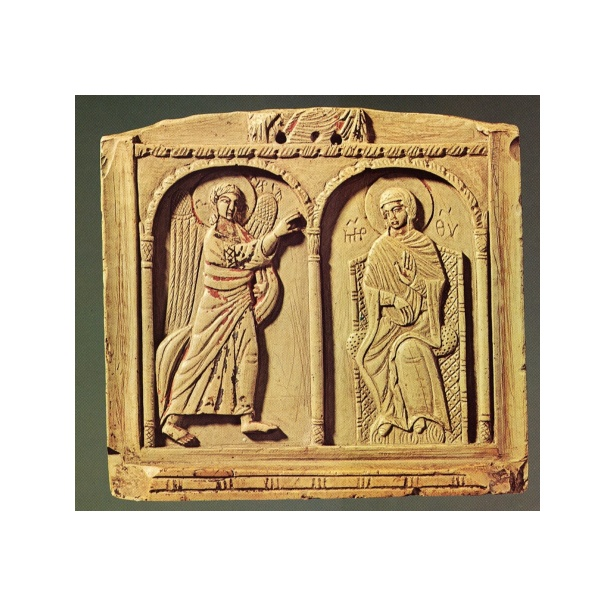
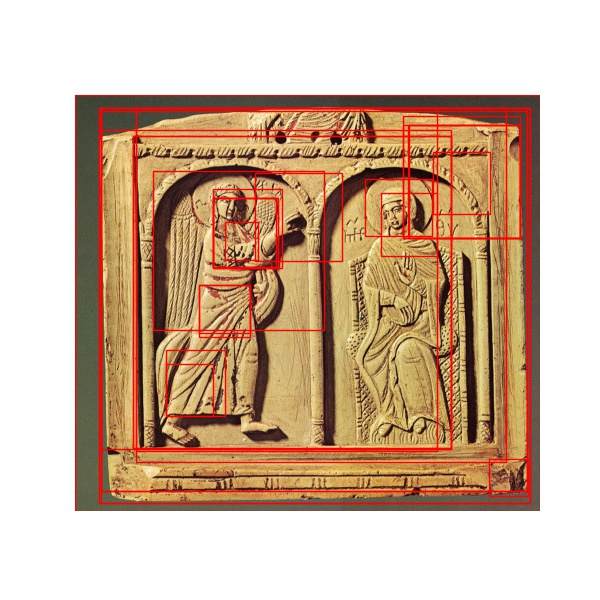
选择性算法

Changed region(s): [[0.12, 0.15, 0.9, 0.87]]

diff --git a/exercise-05_Visual Recognition for Humanities/projcv-ss-2021/code/student.py b/exercise-05_Visual Recognition for Humanities/projcv-ss-2021/code/student.py
@@ -7,11 +7,12 @@ from __future__ import division
 
 import skimage.io
 import skimage.feature
-import skimage.color
+from skimage.color import rgb2hsv
 import skimage.transform
 import skimage.util
-import skimage.segmentation
+import skimage.segmentation as segmentation
 import numpy as np
+
 
 def generate_segments(im_orig, scale, sigma, min_size):
     """
@@ -19,48 +20,59 @@ def generate_segments(im_orig, scale, sigma, min_size):
     1.1. Generate the initial image mask using felzenszwalb algorithm
     1.2. Merge the image mask to the image as a 4th channel
     """
-    ### YOUR CODE HERE ###
+    # mask对每一个像素都进行编号
+    mask = segmentation.felzenszwalb(im_orig, scale, sigma, min_size)
+    seg_img = np.zeros((im_orig.shape[0], im_orig.shape[1], 4))
+    seg_img[:, :, :3] = im_orig
+    seg_img[:, :, 3] = mask
 
-    return im_orig
+    return seg_img
+
 
 def sim_colour(r1, r2):
     """
     2.1. calculate the sum of histogram intersection of colour
     """
-    ### YOUR CODE HERE ###
-
-    return 0
-
+    sum = 0
+    for a, b in zip(r1["hist_color"], r2["hist_color"]):
+        con = np.concatenate(([a], [b]), axis=0)
+        sum += np.sum(np.min(con, axis=0))
+    return sum
 
 def sim_texture(r1, r2):
     """
     2.2. calculate the sum of histogram intersection of texture
     """
-    ### YOUR CODE HERE ###
-
-    return 0
+    sum = 0
+    for a, b in zip(r1["hist_text"], r2["hist_text"]):
+        con = np.concatenate(([a], [b]), axis=0)
+        sum += np.sum(np.min(con, axis=0))
+    return sum
 
 
 def sim_size(r1, r2, imsize):
     """
     2.3. calculate the size similarity over the image
     """
-    ### YOUR CODE HERE ###
-
-    return 0
+    return 1 - (r1["size"] + r2["size"]) / imsize
 
 
 def sim_fill(r1, r2, imsize):
     """
     2.4. calculate the fill similarity over the image
     """
-    ### YOUR CODE HERE ###
+    # bb is Bounding Box
+    bbsize = (
+            (max(r1["max_x"], r2["max_x"]) - min(r1["min_x"], r2["min_x"]))
+            * (max(r1["max_y"], r2["max_y"]) - min(r1["min_y"], r2["min_y"]))
+    )
+    return 1.0 - (bbsize - r1["size"] - r2["size"]) / imsize
 
-    return 0
 
 def calc_sim(r1, r2, imsize):
     return (sim_colour(r1, r2) + sim_texture(r1, r2)
             + sim_size(r1, r2, imsize) + sim_fill(r1, r2, imsize))
+
 
 def calc_colour_hist(img):
     """
@@ -70,12 +82,17 @@ def calc_colour_hist(img):
     number of bins is 25 as same as [uijlings_ijcv2013_draft.pdf]
     extract HSV
     """
+    # input的img已flatten,输入的img参数是每一类别的所有像素点的hsv值
+
     BINS = 25
-    hist = np.array([])
-    ### YOUR CODE HERE ###
-
-
+    hist = np.zeros((BINS, 3))
+    for i in range(3):
+        # hist[:, i], _ = np.histogram(img[:, i], bins=BINS, range=(0, 255))
+        hist[:, i], _ = np.histogram(img[:, i], bins=BINS, range=(0, 255))
+    # L1 normalize
+    hist = hist / len(img)
     return hist
+
 
 def calc_texture_gradient(img):
     """
@@ -86,10 +103,13 @@ def calc_texture_gradient(img):
     output will be [height(*)][width(*)]
     Useful function: Refer to skimage.feature.local_binary_pattern documentation
     """
-    ret = np.zeros((img.shape[0], img.shape[1], img.shape[2]))
-    ### YOUR CODE HERE ###
+    # LBP是一种可用于纹理分类的不变描述符
+    ret = np.zeros_like(img)
+    for i in range(3):
+        ret[:, :, i] = skimage.feature.local_binary_pattern(img[:, :, i], P=8, R=1)
 
     return ret
+
 
 def calc_texture_hist(img):
     """
@@ -101,36 +121,66 @@ def calc_texture_hist(img):
     Do not forget to L1 Normalize the histogram
     """
     BINS = 10
-    hist = np.array([])
-    ### YOUR CODE HERE ###
+    hist = np.zeros((BINS, 3))
+    for i in range(3):
+        hist[:, i], _ = np.histogram(img[:, i], bins=BINS, range=(0, 1))
 
-
+    # L1 normalize
+    hist = hist / len(img)
     return hist
 
+
+# 提取区域的尺寸，颜色和纹理特征
 def extract_regions(img):
-    '''
+    """
     Task 2.5: Generate regions denoted as datastructure R
     - Convert image to hsv color map
     - Count pixel positions
     - Calculate the texture gradient
     - calculate color and texture histograms
     - Store all the necessary values in R.
-    '''
+    """
+    # R记录了该图像每个region的信息：mix_x,min_y,max_x,max_y,size,hist_c,hist_t
     R = {}
-    ### YOUR CODE HERE ###
+
+    hsv_img = rgb2hsv(img[:, :, :3])
+
+    # Count pixel positions
+    # 遍历图片像素点,将每个region最大以及最小的x、y坐标记录在字典R中
+    for y in range(img.shape[0]):
+        for x in range(img.shape[1]):
+            label = img[y, x, 3]
+
+            # initialize a new region
+            if label not in R:
+                R[label] = {"labels": label, "min_x": x, "max_x": x, "min_y": y, "max_y": y}
+            # 改写R字典里的value
+            if x > R[label]["max_x"]: R[label]["max_x"] = x
+            if y > R[label]["max_y"]: R[label]["max_y"] = y
+            if x < R[label]["min_x"]: R[label]["min_x"] = x
+            if y < R[label]["min_y"]: R[label]["min_y"] = y
+
+    texture_grad = calc_texture_gradient(img)
+    for label in R.keys():
+        mask = (img[:, :, 3] == label)
+        R[label]["size"] = hsv_img[mask].shape[0]  # hsv_img[mask].shape=(51,3)
+        # calculate color and texture histograms
+        R[label]["hist_color"] = calc_colour_hist(hsv_img[mask])
+        R[label]["hist_text"] = calc_texture_hist(texture_grad[mask])
 
     return R
 
-def extract_neighbours(regions):
 
+# 找邻居 -- 通过计算每个区域与其余的所有区域是否有相交，来判断是不是邻居
+def extract_neighbours(regions):
     def intersect(a, b):
         if (a["min_x"] < b["min_x"] < a["max_x"]
-                and a["min_y"] < b["min_y"] < a["max_y"]) or (
-            a["min_x"] < b["max_x"] < a["max_x"]
+            and a["min_y"] < b["min_y"] < a["max_y"]) or (
+                a["min_x"] < b["max_x"] < a["max_x"]
                 and a["min_y"] < b["max_y"] < a["max_y"]) or (
-            a["min_x"] < b["min_x"] < a["max_x"]
+                a["min_x"] < b["min_x"] < a["max_x"]
                 and a["min_y"] < b["max_y"] < a["max_y"]) or (
-            a["min_x"] < b["max_x"] < a["max_x"]
+                a["min_x"] < b["max_x"] < a["max_x"]
                 and a["min_y"] < b["min_y"] < a["max_y"]):
             return True
         return False
@@ -139,14 +189,27 @@ def extract_neighbours(regions):
     # Hint 2: The function intersect has been written for you and is required to check neighbours
     neighbours = []
     ### YOUR CODE HERE ###
-
-
+    R = list(regions.items()) # [("key", value)]
+    for cur, a in enumerate(R[:-1]):  # enumerate()用于迭代，可返回下标和值，即cur是下标，从0开始,遍历R所有region(除最后一个)
+        for b in R[cur + 1:]:
+            if intersect(a[1], b[1]):  # 拿当前region-a与a之后的所有类别进行比较 # a[0]是key；a[1]是value (因为R转为list)
+                neighbours.append((a, b))  # 将是邻居的两个region装进数组中
     return neighbours
+
 
 def merge_regions(r1, r2):
     new_size = r1["size"] + r2["size"]
-    rt = {}
     ### YOUR CODE HERE
+    rt = {
+        "min_x": min(r1["min_x"], r2["min_x"]),
+        "min_y": min(r1["min_y"], r2["min_y"]),
+        "max_x": max(r1["max_x"], r2["max_x"]),
+        "max_y": max(r1["max_y"], r2["max_y"]),
+        "size": new_size,
+        "hist_color": (r1["hist_color"] * r1["size"] + r2["hist_color"] * r2["size"]) / new_size,
+        "hist_text": ( r1["hist_text"] * r1["size"] + r2["hist_text"] * r2["size"]) / new_size,
+        "labels": r1["labels"] + r2["labels"]
+    }
 
     return rt
 
@@ -189,44 +252,68 @@ def selective_search(image_orig, scale=1.0, sigma=0.8, min_size=50):
     # Task 2.1-2.4: Refer to functions "sim_colour", "sim_texture", "sim_size", "sim_fill"
     # Task 2.5: Refer to function "extract_regions". You would also need to fill "calc_colour_hist",
     # "calc_texture_hist" and "calc_texture_gradient" in order to finish task 2.5.
-    R = extract_regions(image)
+    R = extract_regions(image)  # R有每个region的信息
 
     # Task 3: Extracting neighbouring information
     # Refer to function "extract_neighbours"
-    neighbours = extract_neighbours(R)
+    neighbours = extract_neighbours(R)  # neighbours为所有是邻居的region的集合
 
     # Calculating initial similarities
     S = {}
     for (ai, ar), (bi, br) in neighbours:
+        # ai，bi指的是两个region的key(即label)，ar，br指的是两个region的value(即region信息)
+        # S是一个字典，key是两个类别的编号，value是这两个类别的相似度
         S[(ai, bi)] = calc_sim(ar, br, imsize)
 
     # Hierarchical search for merging similar regions
     while S != {}:
-
         # Get highest similarity
+        # 找到S中相似度最高的两个region的label--i,j
+        # sorted函数对S进行排序，[-1][0]指的是取出排序后最后一项（value即相似度最大）的第一个元素（即两个region的label）
         i, j = sorted(S.items(), key=lambda i: i[1])[-1][0]
 
         # Task 4: Merge corresponding regions. Refer to function "merge_regions"
-        t = max(R.keys()) + 1.0
+        t = max(R.keys()) + 1.0  # 新建一个新的区域编号
         R[t] = merge_regions(R[i], R[j])
+        # 为什么不删除旧的region????, 后面cnn处理?
+
 
         # Task 5: Mark similarities for regions to be removed
         ### YOUR CODE HERE ###
-
+        key_to_delete = []
+        for k, v in list(S.items()):
+            if (i in k) or (j in k):
+                #将S中有类别i和类别j的项目找出来放入key_to_delete数组中
+                key_to_delete.append(k)
 
         # Task 6: Remove old similarities of related regions
         ### YOUR CODE HERE ###
+        for k in key_to_delete:
+            del S[k]
 
+        # task 5、6的例子: S的key里(1,3)最像，新区域为的label为5. key_to_delete包含(1,2)(1,3)(1,4)(2,3)(2,4)
+        # task7要重算(2,5)(4,5)的相似度并放入S
 
         # Task 7: Calculate similarities with the new region
         ### YOUR CODE HERE ###
-
+        for k in key_to_delete:
+            if k != (i, j):
+                x = k[0]
+                if k[0] is i or k[0] is j:
+                    x = k[1]
+                S[(t, x)] = calc_sim(R[t], R[x], imsize)
+   # while循环结束，已经合并结束，R更新完成
 
     # Task 8: Generating the final regions from R
     regions = []
     ### YOUR CODE HERE ###
-
-
+    for k, r in list(R.items()):
+        # print("r=",r)
+        regions.append({
+            'rect': (
+                r['min_x'], r['min_y'],
+                r['max_x'] - r['min_x'], r['max_y'] - r['min_y']),
+            'size': r['size'],
+            'labels': r['labels']
+        })
     return image, regions
-
-

diff --git a/exercise-05_Visual Recognition for Humanities/projcv-ss-2021/code/main.py b/exercise-05_Visual Recognition for Humanities/projcv-ss-2021/code/main.py
@@ -19,10 +19,10 @@ from student import selective_search
 def main():
     
     # loading a test image from '../data' folder
-    image_path = '../data/chrisarch/ca-annun3.jpg'
+    image_path = '../data/classarch/pursuit2.jpg'
     image = skimage.io.imread(image_path)
-    print (image.shape)
-    
+    print(image.shape)
+
     # perform selective search
     image_label, regions = selective_search(
                             image,
